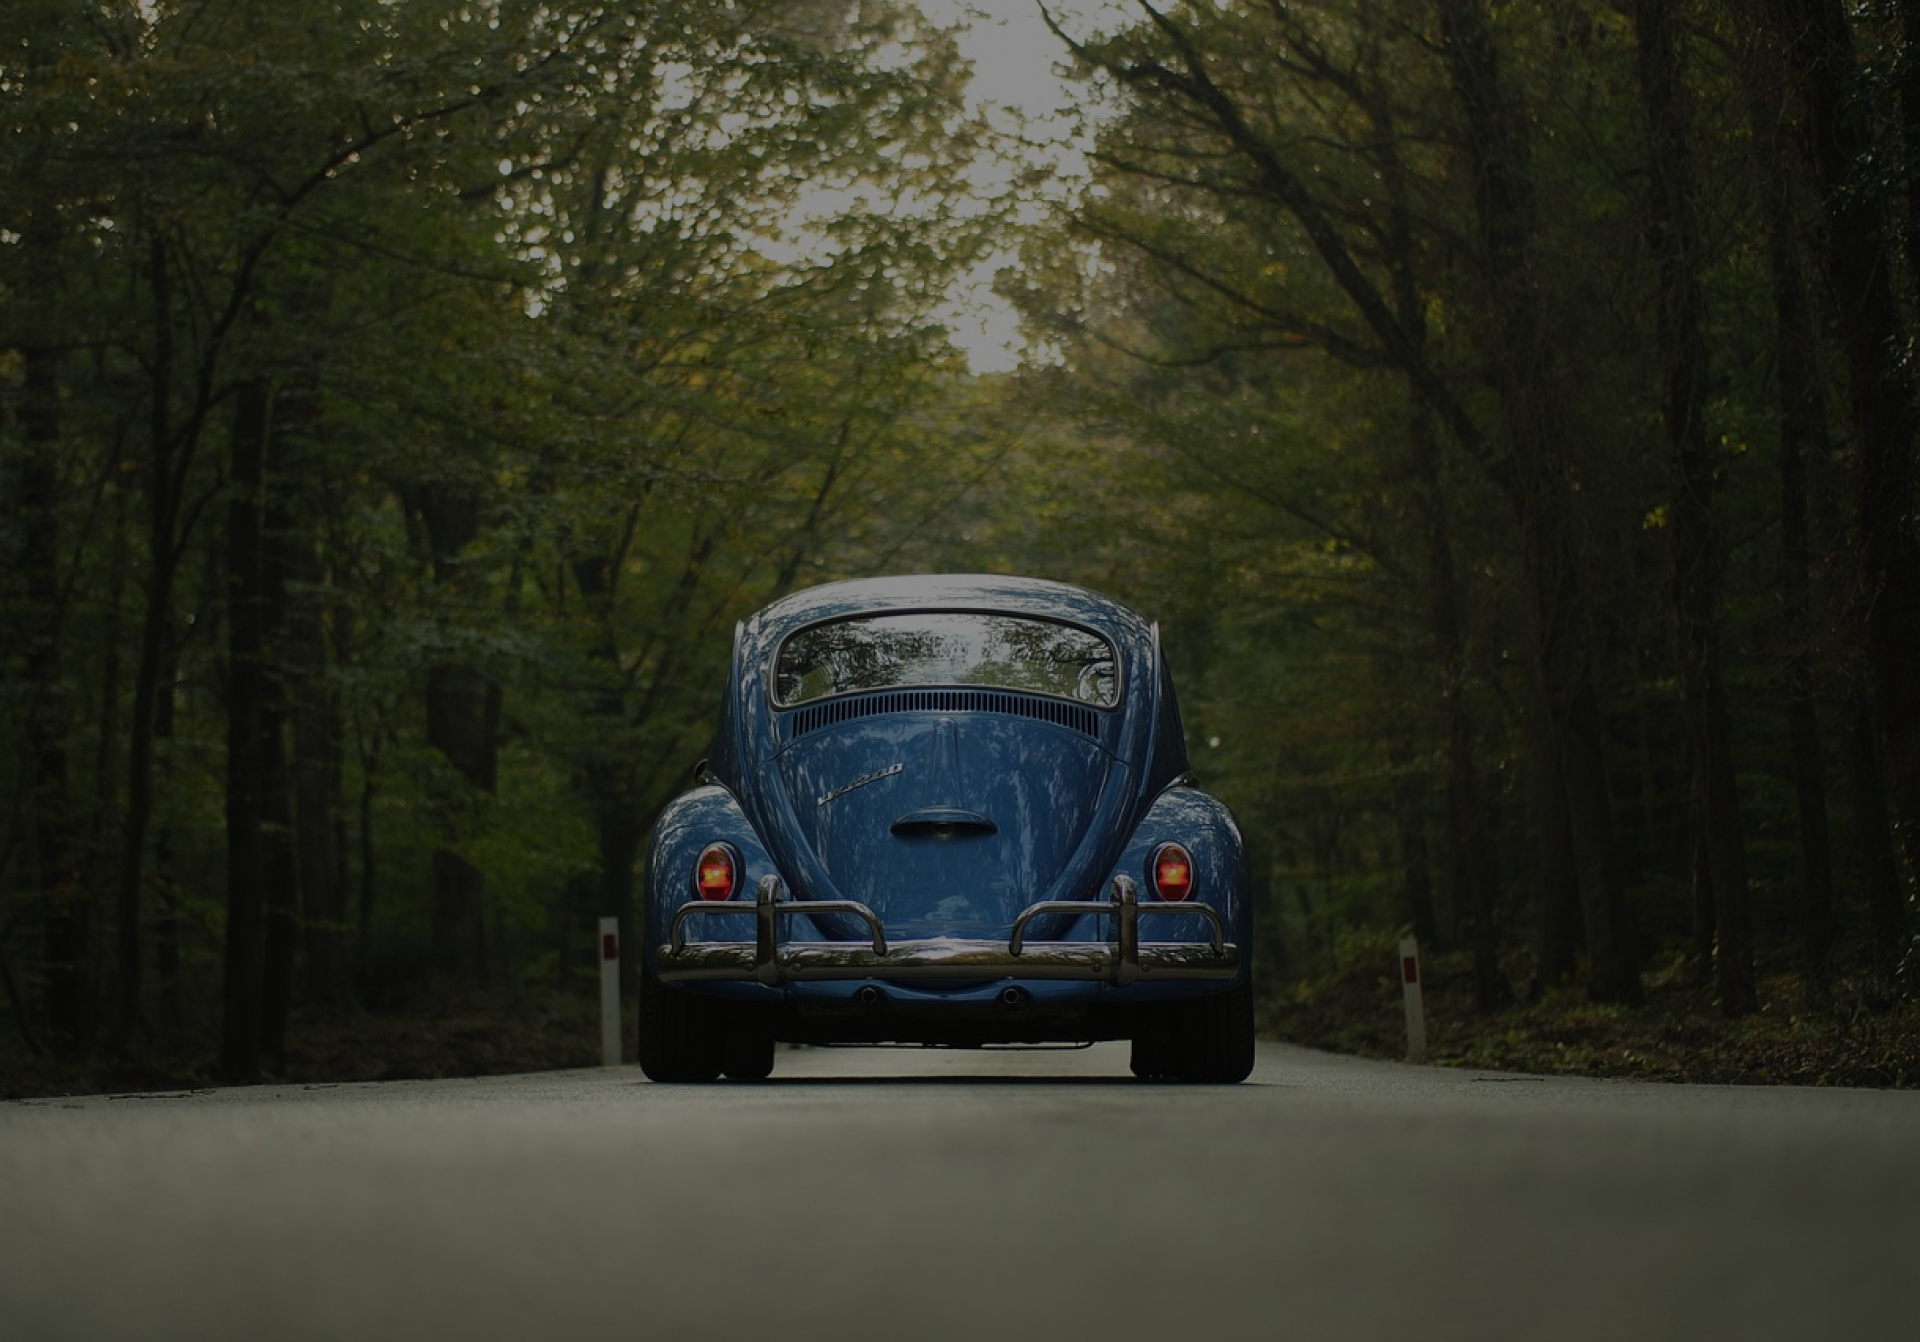
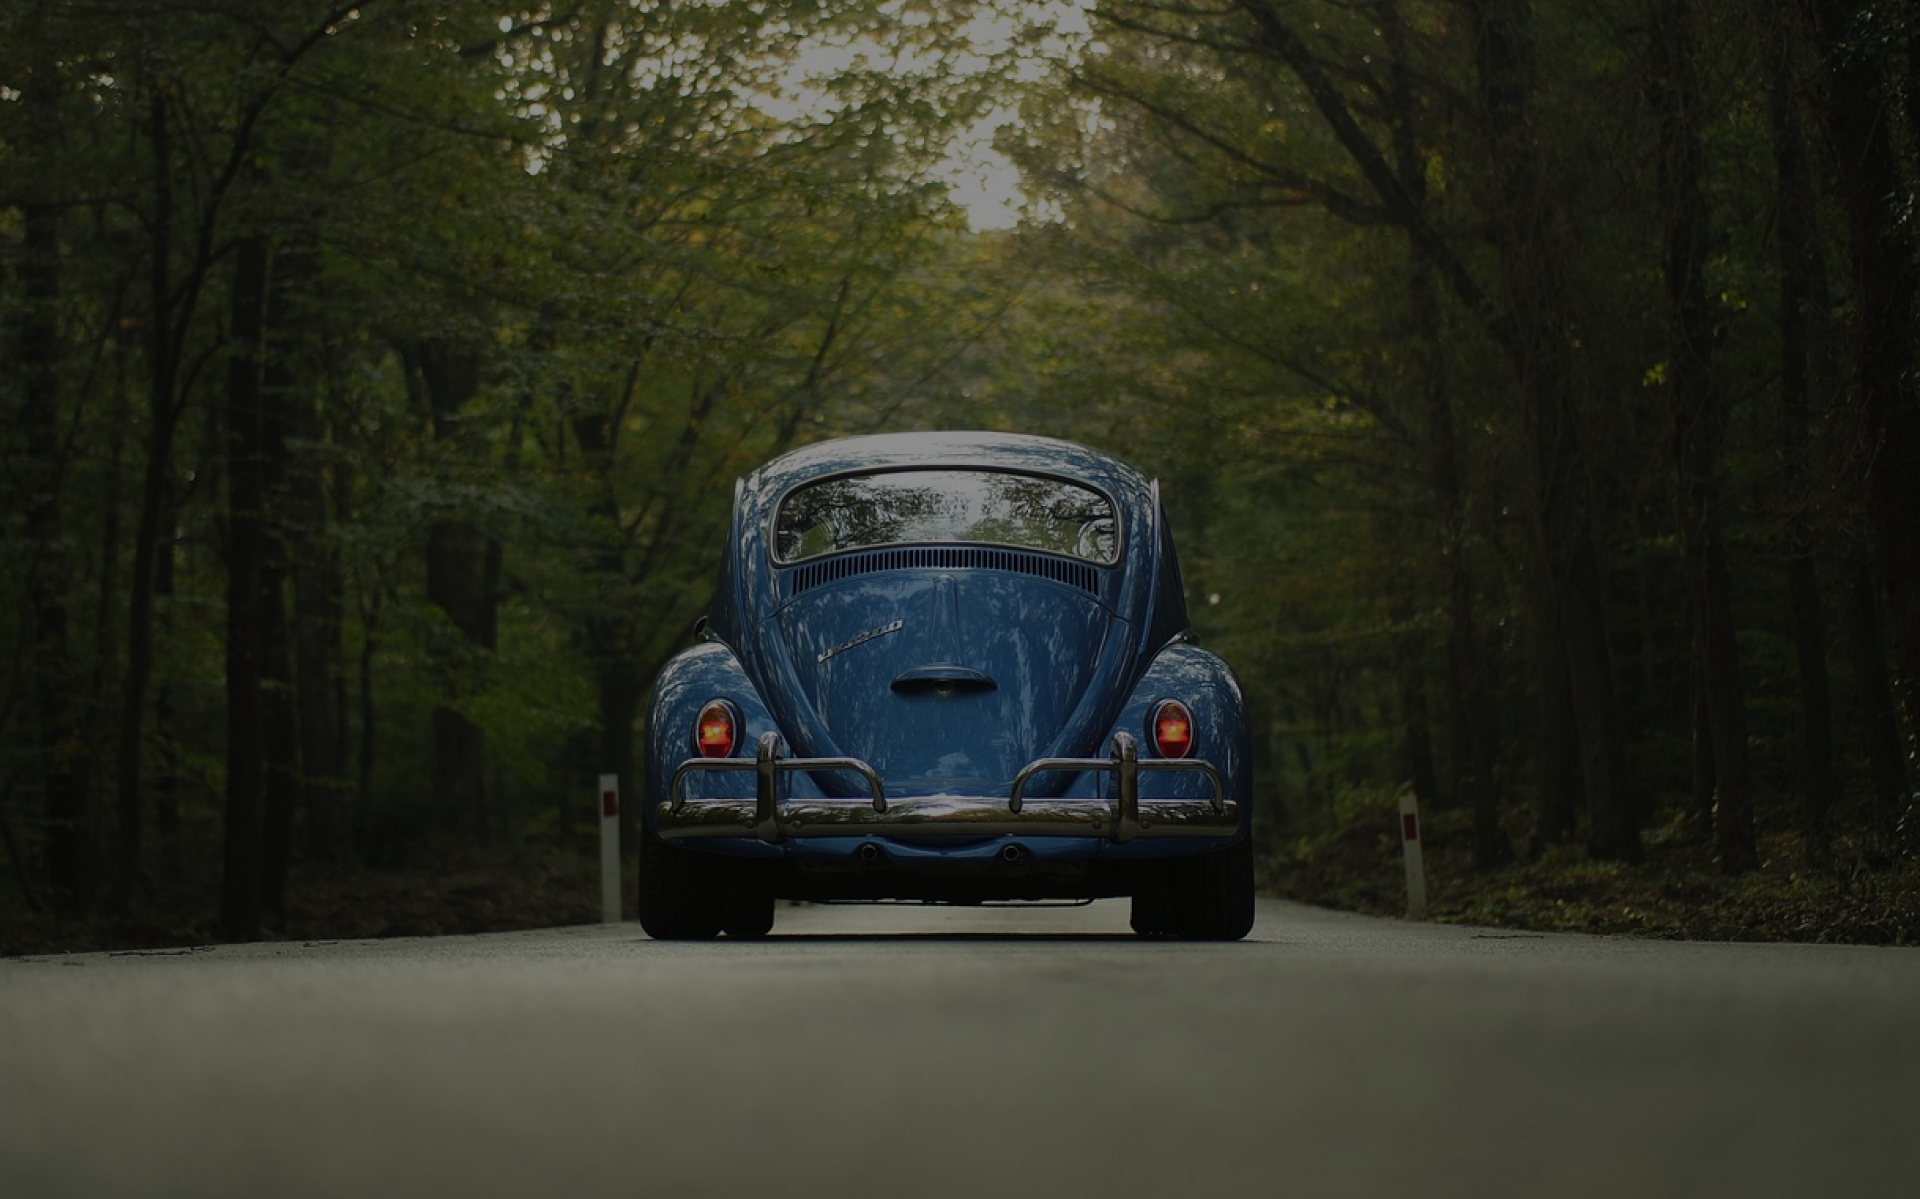
Trabalhando em ajustes de UX e corrigindo erro no link das páginas em PT, EN e ES - feat: Animação nos cards e footer - fix: Ajuste no li a para funcionar o espaço inteiro do link

diff --git a/js/script.js b/js/script.js
@@ -8,12 +8,30 @@ window.addEventListener('load', () => {
         content: '#smooth-content'
     });
 
-     // ANIMAÇÕES HERO
+    // ANIMAÇÕES HERO
     gsap.from(".hero", {
         opacity: 0,
         duration: 0.5
     });
 
+    // ANIMAÇÕES CIDADE    
+    gsap.from(".card", {
+        opacity: 0,
+        // duration: 1,
+        y: 5,
+        filter: "blur(5px)",
+        // Uma animação é animada atrás da outra (intercalada)
+        stagger: .3,
+        scrollTrigger: {
+            trigger: ".cards",
+            // markers: true,
+            start: "0% 80%",
+            end: "100% 70%",
+            scrub: true
+        }
+    });
+
+    // ANIMAÇÕES SCROLL CONTATO
     const header = document.querySelector('.header');
     const headerHeight = header ? header.offsetHeight : 0;
     const secaoContato = document.getElementById('contato');
@@ -54,5 +72,22 @@ window.addEventListener('load', () => {
         if (initialTarget) {
             scrollToSection(initialTarget);
         }
-    }
+    }    
+
+    // ANIMAÇÕES FOOTER
+    gsap.from("footer", {
+        y: "-30%",
+        // Renderiza a página sem jogar o posicionamento acima
+        immediateRender: false,
+        scrollTrigger: {
+            trigger: "footer",
+            // Para ficar sincronizado com a rolagem da página
+            scrub: true,
+            // markers: true,
+            invalidateOnRefresh: true,
+            end: "100% 100%"
+        }
+    });
+
+
 });

diff --git a/css/style-br.css b/css/style-br.css
@@ -45,13 +45,24 @@ html {
   gap: 35px;
 }
 
-.nav a,
-.desktop-only .lang-dropdown li a {
+.nav a {
   font-size: 1em;
   text-decoration: none;
   color: #2c3e50;
   font-weight: 500;
   transition: 0.3s;
+}
+
+.desktop-only .lang-dropdown li a,
+.lang-dropdown li a {
+  display: block;
+  width: 100%;
+  font-size: 1em;
+  text-decoration: none;
+  color: #2c3e50;
+  font-weight: 500;
+  transition: 0.3s;
+  padding: 10px 12px;
 }
 
 .nav a:hover {
@@ -83,7 +94,7 @@ html {
 }
 
 .lang-dropdown li {
-  padding: 10px;
+  padding: 0;
   transition: 0.3s;
 }
 
@@ -214,7 +225,7 @@ button {
     width: 100%;
     display: flex;
     justify-content: center;
-    margin-top: 6.5vw;
+    margin-bottom: 1.5vw;
     flex-direction: column;
     align-items: center;
     text-align: center;

diff --git a/css/style-en.css b/css/style-en.css
@@ -45,13 +45,24 @@ html {
   gap: 35px;
 }
 
-.nav a,
-.desktop-only .lang-dropdown li a {
+.nav a {
   font-size: 1em;
   text-decoration: none;
   color: #2c3e50;
   font-weight: 500;
   transition: 0.3s;
+}
+
+.desktop-only .lang-dropdown li a,
+.lang-dropdown li a {
+  display: block;
+  width: 100%;
+  font-size: 1em;
+  text-decoration: none;
+  color: #2c3e50;
+  font-weight: 500;
+  transition: 0.3s;
+  padding: 10px 12px;
 }
 
 .nav a:hover {
@@ -83,7 +94,7 @@ html {
 }
 
 .lang-dropdown li {
-  padding: 10px;
+  padding: 0;
   transition: 0.3s;
 }
 
@@ -217,7 +228,7 @@ button {
     width: 100%;
     display: flex;
     justify-content: center;
-    margin-top: 6.5vw;
+    margin-bottom: 1.5vw;
     flex-direction: column;
     align-items: center;
     text-align: center;

diff --git a/css/style-es.css b/css/style-es.css
@@ -45,13 +45,24 @@ html {
   gap: 35px;
 }
 
-.nav a,
-.desktop-only .lang-dropdown li a {
+.nav a {
   font-size: 1em;
   text-decoration: none;
   color: #2c3e50;
   font-weight: 500;
   transition: 0.3s;
+}
+
+.desktop-only .lang-dropdown li a,
+.lang-dropdown li a {
+  display: block;
+  width: 100%;
+  font-size: 1em;
+  text-decoration: none;
+  color: #2c3e50;
+  font-weight: 500;
+  transition: 0.3s;
+  padding: 10px 12px;
 }
 
 .nav a:hover {
@@ -83,7 +94,7 @@ html {
 }
 
 .lang-dropdown li {
-  padding: 10px;
+  padding: 0;
   transition: 0.3s;
 }
 
@@ -214,7 +225,7 @@ button {
     width: 100%;
     display: flex;
     justify-content: center;
-    margin-top: 6.5vw;
+    margin-bottom: 1.5vw;
     flex-direction: column;
     align-items: center;
     text-align: center;

diff --git a/index.html b/index.html
@@ -168,7 +168,7 @@
                 </section>       
         
                  <!-- MISSÃO VISÃO VALORES -->
-                <section class="mvv" id="mvv">
+                <section class="mvv textoSplit" id="mvv">
         
                     <div class="texto-mvv">
         
